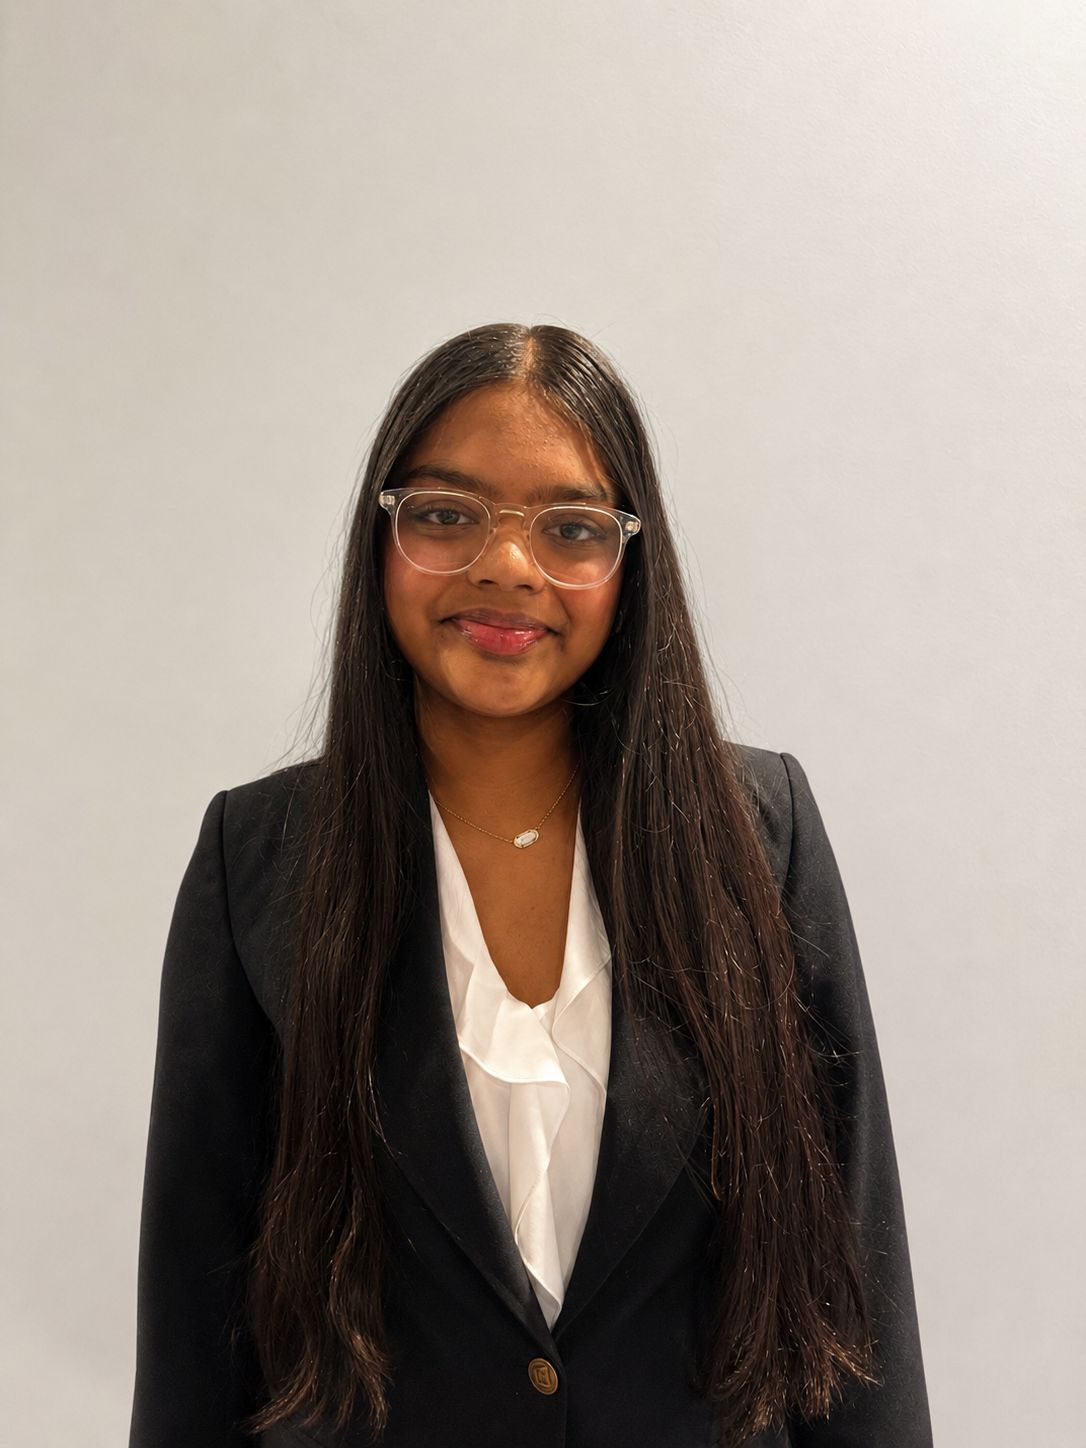
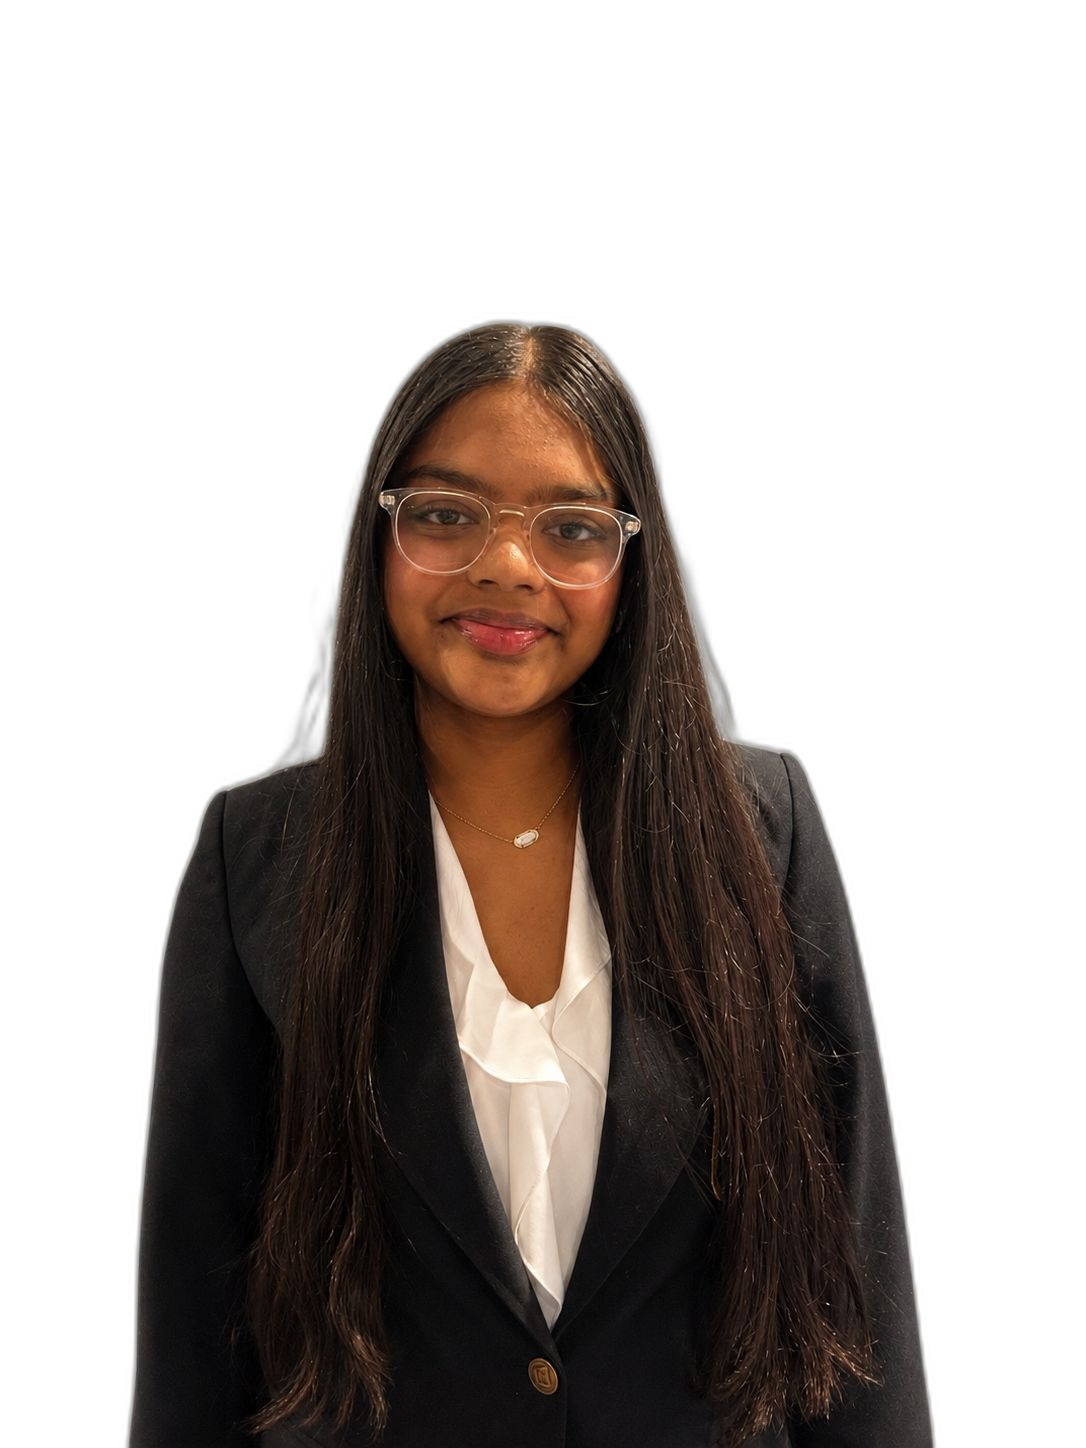
Add Nikhil Kumar as ambassador, capitalize fun facts, white-bg photos
- Add Nikhil Kumar to the Social Media Ambassador Team
- Capitalize "Fun fact:" to "Fun Fact:" and the sentence after it
  across all ambassador notes
- Replace every team/ambassador photo with a version cleaned onto a
  plain white background for a consistent look

diff --git a/app/about/page.tsx b/app/about/page.tsx
@@ -51,7 +51,7 @@ const ambassadorLeads = [
     photo: "/team/tanishi-srivastava.jpeg",
     name: "Tanishi Srivastava",
     role: "Head of Marketing",
-    note: "Fun fact: my favorite movie is 27 Dresses.",
+    note: "Fun Fact: My favorite movie is 27 Dresses.",
   },
 ]
 
@@ -60,19 +60,25 @@ const ambassadors = [
     photo: "/team/nikhil-kolisetty.jpeg",
     name: "Nikhil Kolisetty",
     role: "Social Media Ambassador",
-    note: "Fun fact: I like to play FC26 in my free time.",
+    note: "Fun Fact: I like to play FC26 in my free time.",
+  },
+  {
+    photo: "/team/nikhil-kumar.jpeg",
+    name: "Nikhil Kumar",
+    role: "Social Media Ambassador",
+    note: "Fun Fact: My favorite color is Navy Blue.",
   },
   {
     photo: "/team/raaga-maddala.jpeg",
     name: "Raaga Maddala",
     role: "Social Media Ambassador",
-    note: "Fun fact: my favorite artist is SZA.",
+    note: "Fun Fact: My favorite artist is SZA.",
   },
   {
     photo: "/team/aanya-bhardwaj.jpeg",
     name: "Aanya Bhardwaj",
     role: "Social Media Ambassador",
-    note: "Fun fact: my favorite artist is Ariana Grande.",
+    note: "Fun Fact: My favorite artist is Ariana Grande.",
   },
 ]
 
